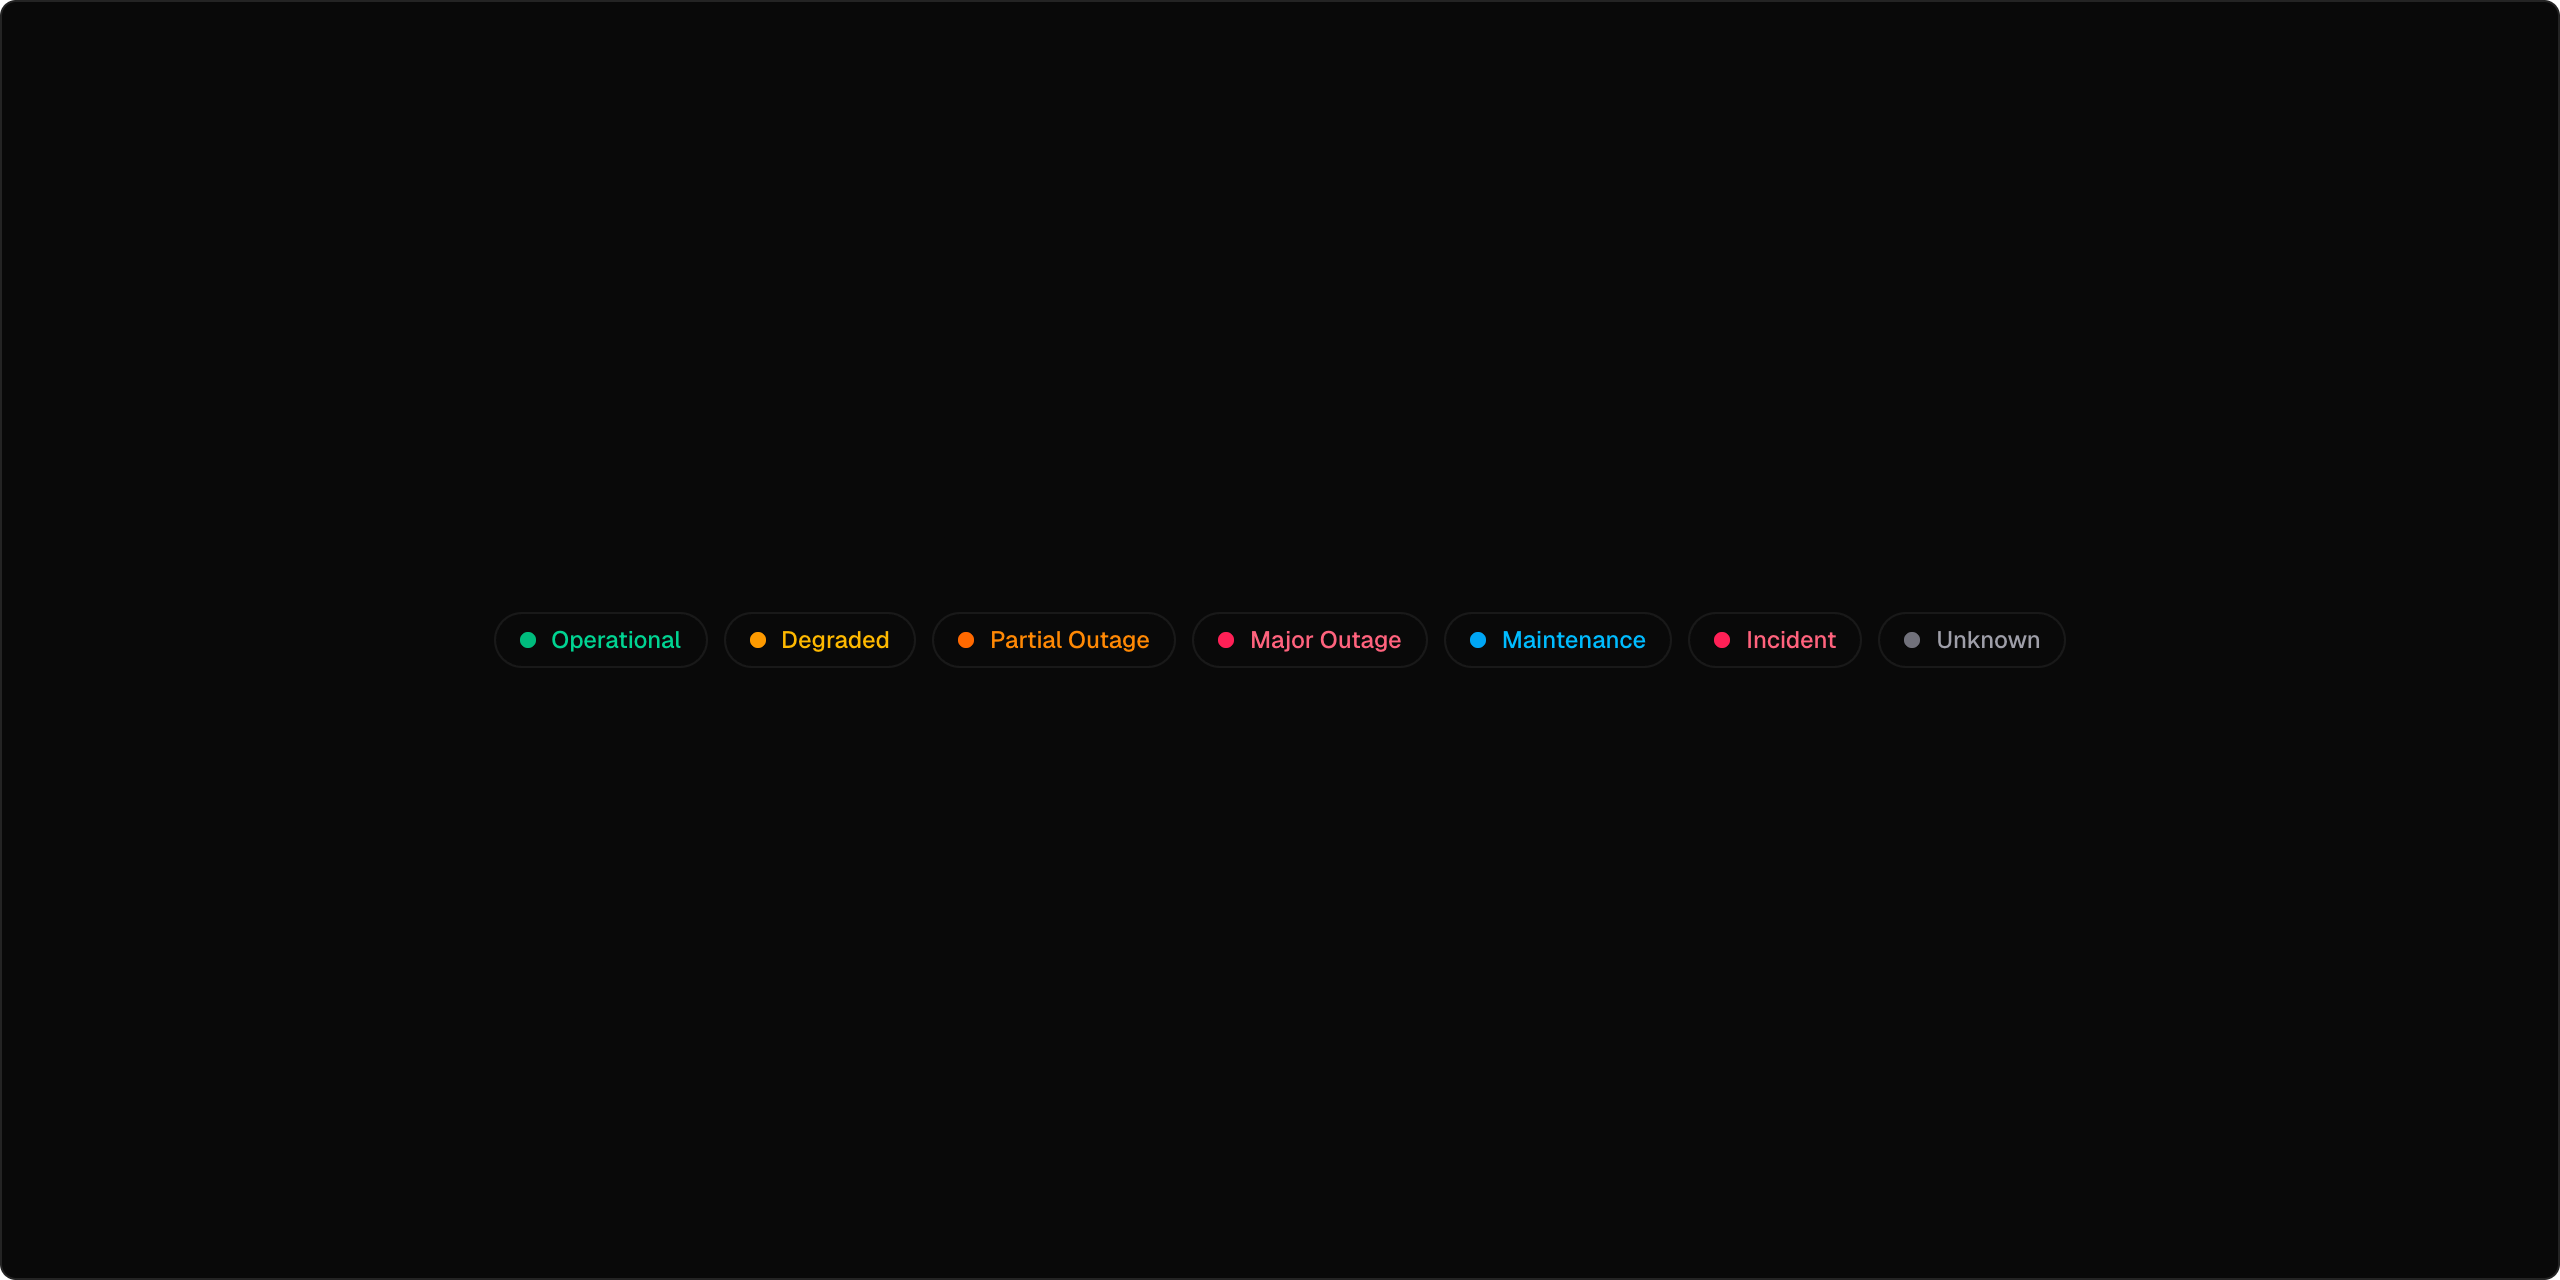
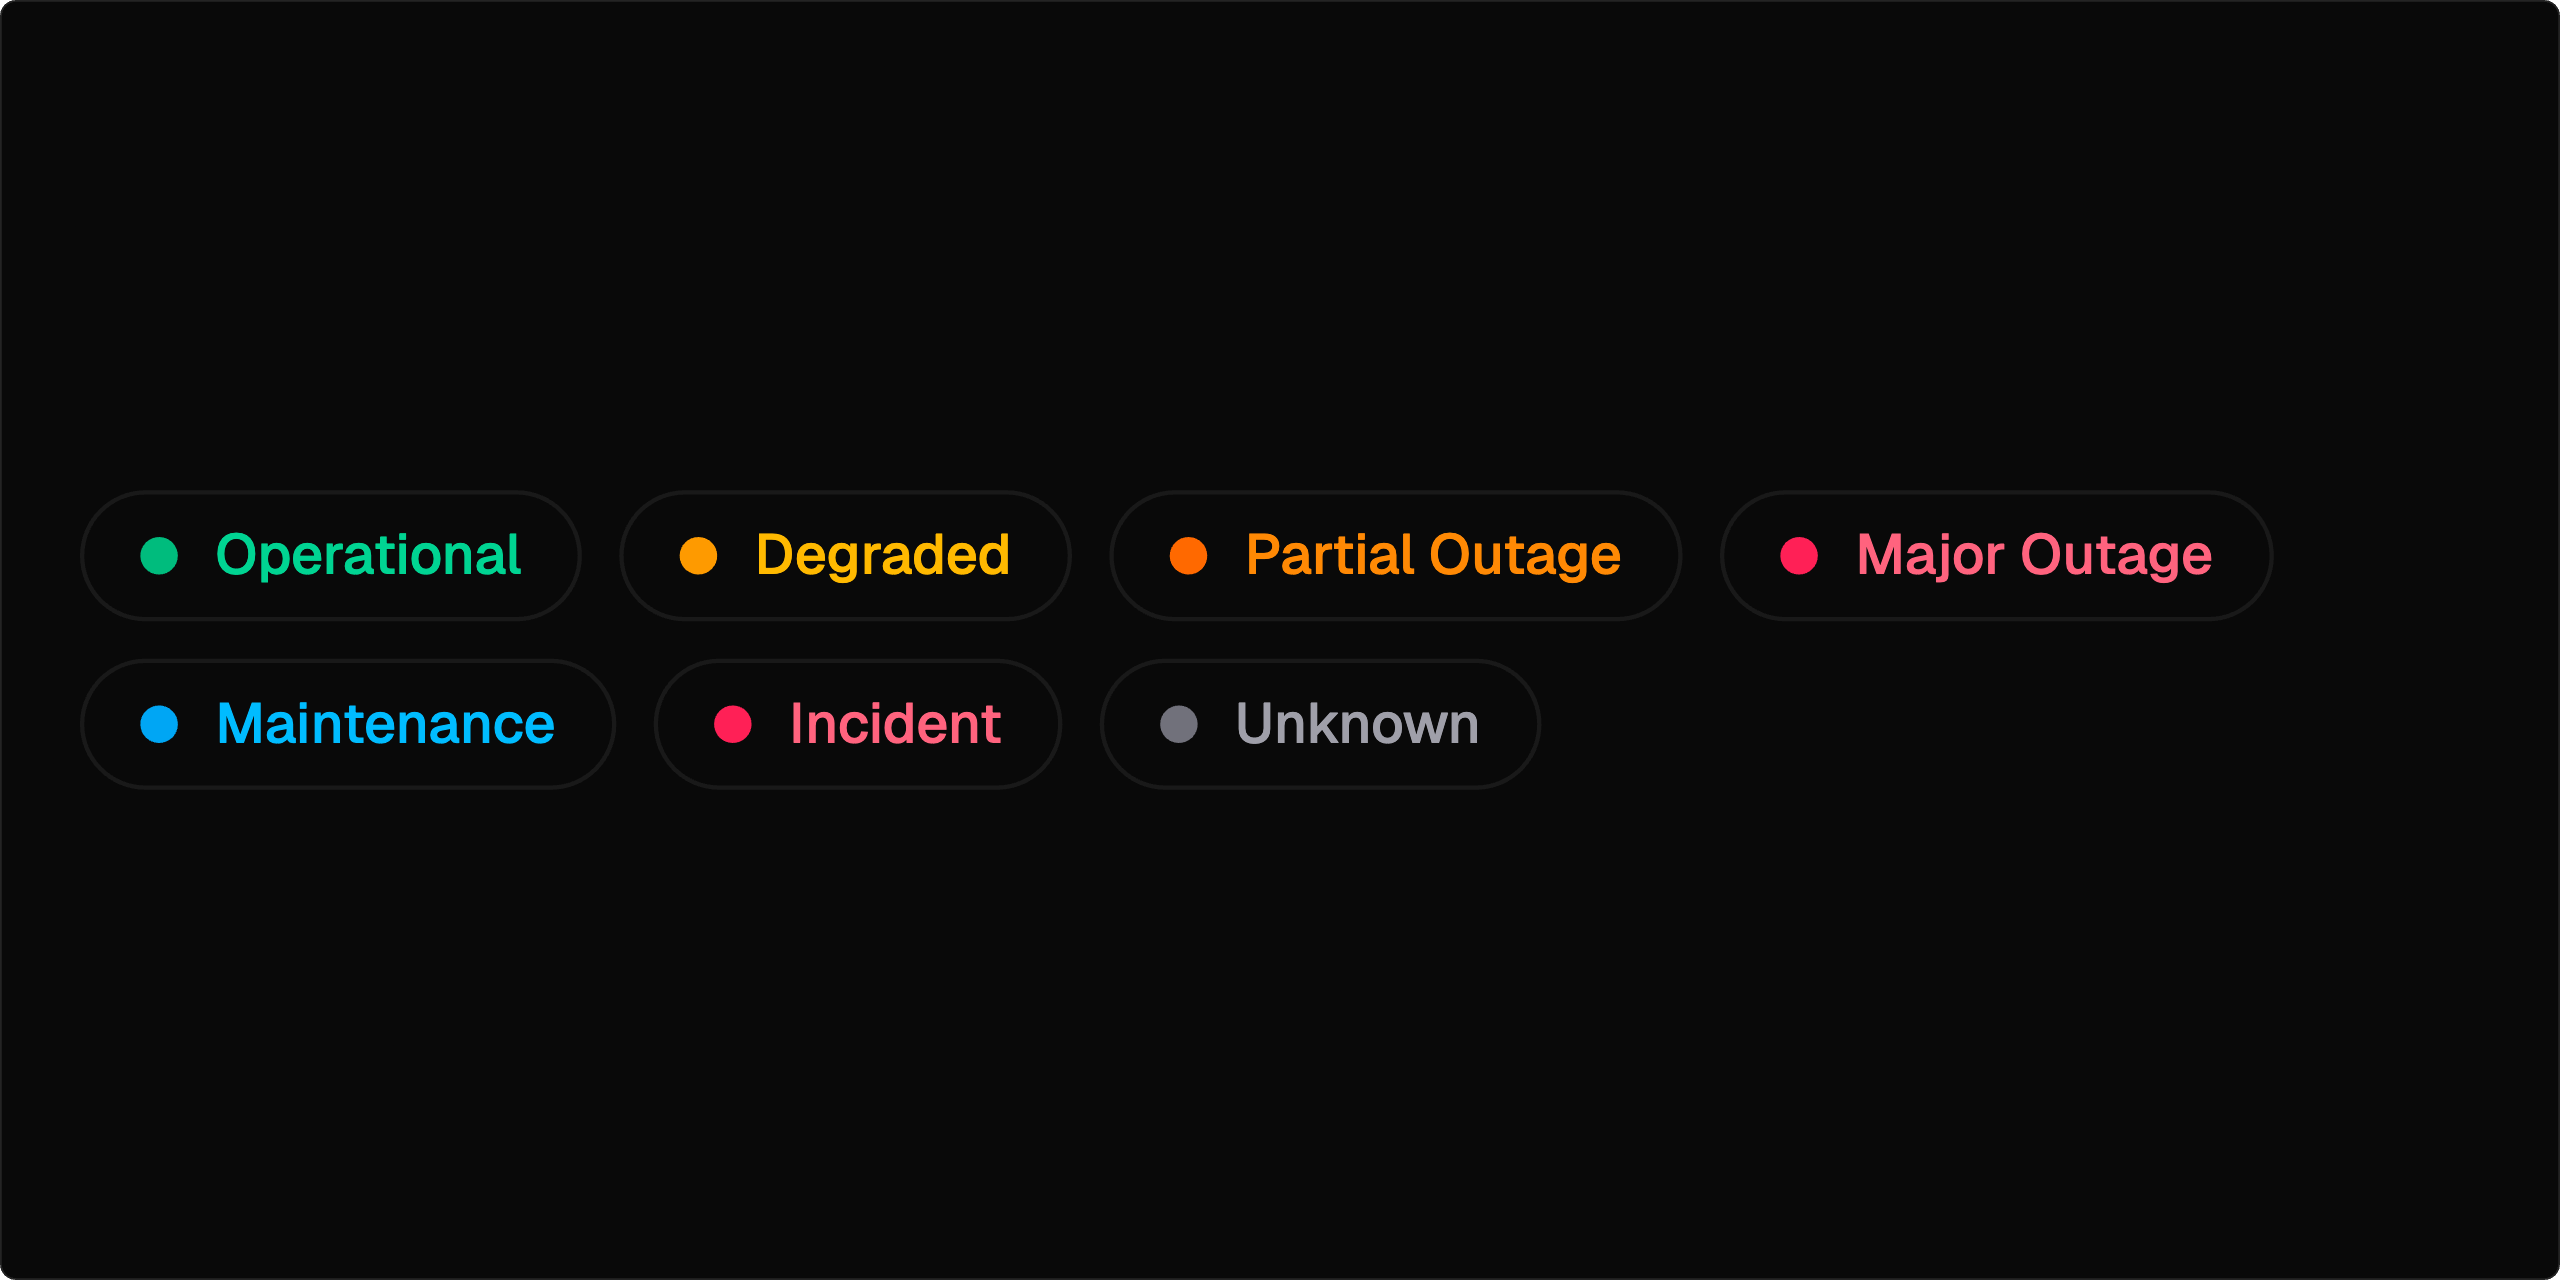
feat(docs): derive New badges from latest release automatically
- getActiveBadge now checks if a component's slug is in the latest
  release from lib/releases.ts — no manual badge/badgeAdded props
- Remove all manual badge and badgeAdded from nav items in lib/docs.ts
- When a new release ships, badges automatically move to its components
- Update AGENTS.md to reflect the new badge behavior

diff --git a/lib/docs.ts b/lib/docs.ts
@@ -1,30 +1,26 @@
+import { getLatestRelease } from "@/lib/releases"
+
 export interface NavItem {
   title: string
   href: string
   /** Indicates this page documents a bundled export from another registry item. */
   bundledIn?: string
-  /** Optional badge shown next to the title (e.g. "New", "Beta"). */
+  /** Optional badge shown next to the title (e.g. "New", "Beta"). Prefer omitting — badges are now auto-derived from the latest release. */
   badge?: string
-  /**
-   * ISO date string (e.g. "2026-03-12") when the badge was added.
-   * Badge auto-hides 14 days after this date. When omitted, badge is permanent.
-   */
-  badgeAdded?: string
-  /** ISO date string when the component was first added to the registry. Used by the changelog. */
+  /** ISO date string when the component was first added to the registry. */
   dateAdded?: string
 }
 
-/** Number of days a badge stays visible. */
-const BADGE_TTL_DAYS = 14
+/** Component slugs from the latest release — these get the "New" badge. */
+const latestReleaseSlugs = new Set(
+  getLatestRelease().components.map((c) => c.name)
+)
 
-/** Returns the badge text if it should still be shown, or undefined. */
+/** Returns "New" if the component is part of the latest release, or the manual badge if set. */
 export function getActiveBadge(item: NavItem): string | undefined {
-  if (!item.badge) return undefined
-  if (!item.badgeAdded) return item.badge
-
-  const added = new Date(item.badgeAdded)
-  const expires = new Date(added.getTime() + BADGE_TTL_DAYS * 86_400_000)
-  return new Date() < expires ? item.badge : undefined
+  if (item.badge) return item.badge
+  const slug = item.href.split("/").pop() ?? ""
+  return latestReleaseSlugs.has(slug) ? "New" : undefined
 }
 
 export interface NavGroup {
@@ -47,7 +43,7 @@ export const docsNav: NavGroup[] = [
     title: "Code",
     items: [
       { title: "Code Block", href: "/docs/components/code-block", dateAdded: "2026-03-11" },
-      { title: "Diff Viewer", href: "/docs/components/diff-viewer", badge: "New", badgeAdded: "2026-03-24", dateAdded: "2026-03-24" },
+      { title: "Diff Viewer", href: "/docs/components/diff-viewer", dateAdded: "2026-03-24" },
       {
         title: "Code Block Command",
         href: "/docs/components/code-block-command",
@@ -60,11 +56,11 @@ export const docsNav: NavGroup[] = [
     title: "Docs",
     items: [
       { title: "AI Copy Button", href: "/docs/components/ai-copy-button", dateAdded: "2026-03-11" },
-      { title: "Kbd", href: "/docs/components/kbd", badge: "New", badgeAdded: "2026-03-24", dateAdded: "2026-03-24" },
+      { title: "Kbd", href: "/docs/components/kbd", dateAdded: "2026-03-24" },
       { title: "API Reference Table", href: "/docs/components/api-ref-table", dateAdded: "2026-03-11" },
-      { title: "File Tree", href: "/docs/components/file-tree", badge: "New", badgeAdded: "2026-03-17", dateAdded: "2026-03-17" },
-      { title: "Stepper", href: "/docs/components/stepper", badge: "New", badgeAdded: "2026-03-12", dateAdded: "2026-03-12" },
-      { title: "Color Palette", href: "/docs/components/color-palette", badge: "New", badgeAdded: "2026-03-29", dateAdded: "2026-03-29" },
+      { title: "File Tree", href: "/docs/components/file-tree", dateAdded: "2026-03-17" },
+      { title: "Stepper", href: "/docs/components/stepper", dateAdded: "2026-03-12" },
+      { title: "Color Palette", href: "/docs/components/color-palette", dateAdded: "2026-03-29" },
     ],
   },
   {
@@ -81,12 +77,12 @@ export const docsNav: NavGroup[] = [
         href: "/docs/components/github-button-group",
         dateAdded: "2026-03-11",
       },
-      { title: "npm Badge", href: "/docs/components/npm-badge", badge: "New", badgeAdded: "2026-03-12", dateAdded: "2026-03-12" },
-      { title: "Product Hunt", href: "/docs/components/producthunt-button", badge: "New", badgeAdded: "2026-03-12", dateAdded: "2026-03-12" },
-      { title: "Contributor Grid", href: "/docs/components/contributor-grid", badge: "New", badgeAdded: "2026-03-29", dateAdded: "2026-03-29" },
-      { title: "Commit Graph", href: "/docs/components/commit-graph", badge: "New", badgeAdded: "2026-03-29", dateAdded: "2026-03-29" },
-      { title: "License Badge", href: "/docs/components/license-badge", badge: "New", badgeAdded: "2026-03-29", dateAdded: "2026-03-29" },
-      { title: "Repo Card", href: "/docs/components/repo-card", badge: "New", badgeAdded: "2026-03-29", dateAdded: "2026-03-29" },
+      { title: "npm Badge", href: "/docs/components/npm-badge", dateAdded: "2026-03-12" },
+      { title: "Product Hunt", href: "/docs/components/producthunt-button", dateAdded: "2026-03-12" },
+      { title: "Contributor Grid", href: "/docs/components/contributor-grid", dateAdded: "2026-03-29" },
+      { title: "Commit Graph", href: "/docs/components/commit-graph", dateAdded: "2026-03-29" },
+      { title: "License Badge", href: "/docs/components/license-badge", dateAdded: "2026-03-29" },
+      { title: "Repo Card", href: "/docs/components/repo-card", dateAdded: "2026-03-29" },
     ],
   },
   {
@@ -102,14 +98,14 @@ export const docsNav: NavGroup[] = [
   {
     title: "Marketing",
     items: [
-      { title: "Logo Cloud", href: "/docs/components/logo-cloud", badge: "New", badgeAdded: "2026-03-29", dateAdded: "2026-03-29" },
-      { title: "Testimonial", href: "/docs/components/testimonial", badge: "New", badgeAdded: "2026-03-29", dateAdded: "2026-03-29" },
+      { title: "Logo Cloud", href: "/docs/components/logo-cloud", dateAdded: "2026-03-29" },
+      { title: "Testimonial", href: "/docs/components/testimonial", dateAdded: "2026-03-29" },
     ],
   },
   {
     title: "Infrastructure",
     items: [
-      { title: "Status Indicator", href: "/docs/components/status-indicator", badge: "New", badgeAdded: "2026-03-29", dateAdded: "2026-03-29" },
+      { title: "Status Indicator", href: "/docs/components/status-indicator", dateAdded: "2026-03-29" },
     ],
   },
   {

diff --git a/AGENTS.md b/AGENTS.md
@@ -120,7 +120,7 @@ For component branches specifically:
 7. Implement the component with accessible structure, restrained styling, and realistic demo content.
 8. Document the component in the same change, including preview, installation, and usage.
 9. Create a card preview file at `components/docs/previews/<registry-name>.tsx` showing the component and its key variants, then run `pnpm previews:generate`.
-10. Add the component to the sidebar nav in `lib/docs.ts` with `badge: "New"` and `badgeAdded` set to today's ISO date (e.g. `"2026-03-12"`).
+10. Add the component to the sidebar nav in `lib/docs.ts` with `dateAdded` set to today's ISO date. The "New" badge is auto-derived from the latest release — no manual `badge` prop needed.
 11. Generate screenshots via `/dev/screenshots` — use "Save All → public/previews/" to write both `<name>-dark.png` and `<name>-light.png`.
 12. Run `pnpm registry:build` and `pnpm build` to verify everything compiles.
 13. Open a PR with the component template and verify every checklist item.
@@ -273,7 +273,7 @@ Components SHOULD be developed and released in batches, not individually. The ty
 3. When the batch is ready, add a release entry to `lib/releases.ts`.
 4. Bump the version in `package.json`.
 5. Merge to `main`, tag with `git tag YYYY.MM.patch`, and create a GitHub Release.
-6. Clear `badge: "New"` from the previous release's components in `lib/docs.ts`.
+6. "New" badges update automatically — they show for components in the latest release only.
 
 There is no fixed release schedule. Release when a batch feels complete.
 
@@ -366,7 +366,7 @@ When opening a component PR on GitHub, the component template MUST be selected f
 
 Every new public component PR MUST pass these before merging:
 - Component source in `registry/<name>/` with registry.json entry
-- Sidebar nav entry in `lib/docs.ts` with `badge: "New"` and `badgeAdded` set to today's date
+- Sidebar nav entry in `lib/docs.ts` with `dateAdded` set to today's date
 - Docs page at `app/docs/components/<name>/page.tsx` with matching description
 - Card preview at `components/docs/previews/<name>.tsx` with key variants
 - `pnpm previews:generate` run
